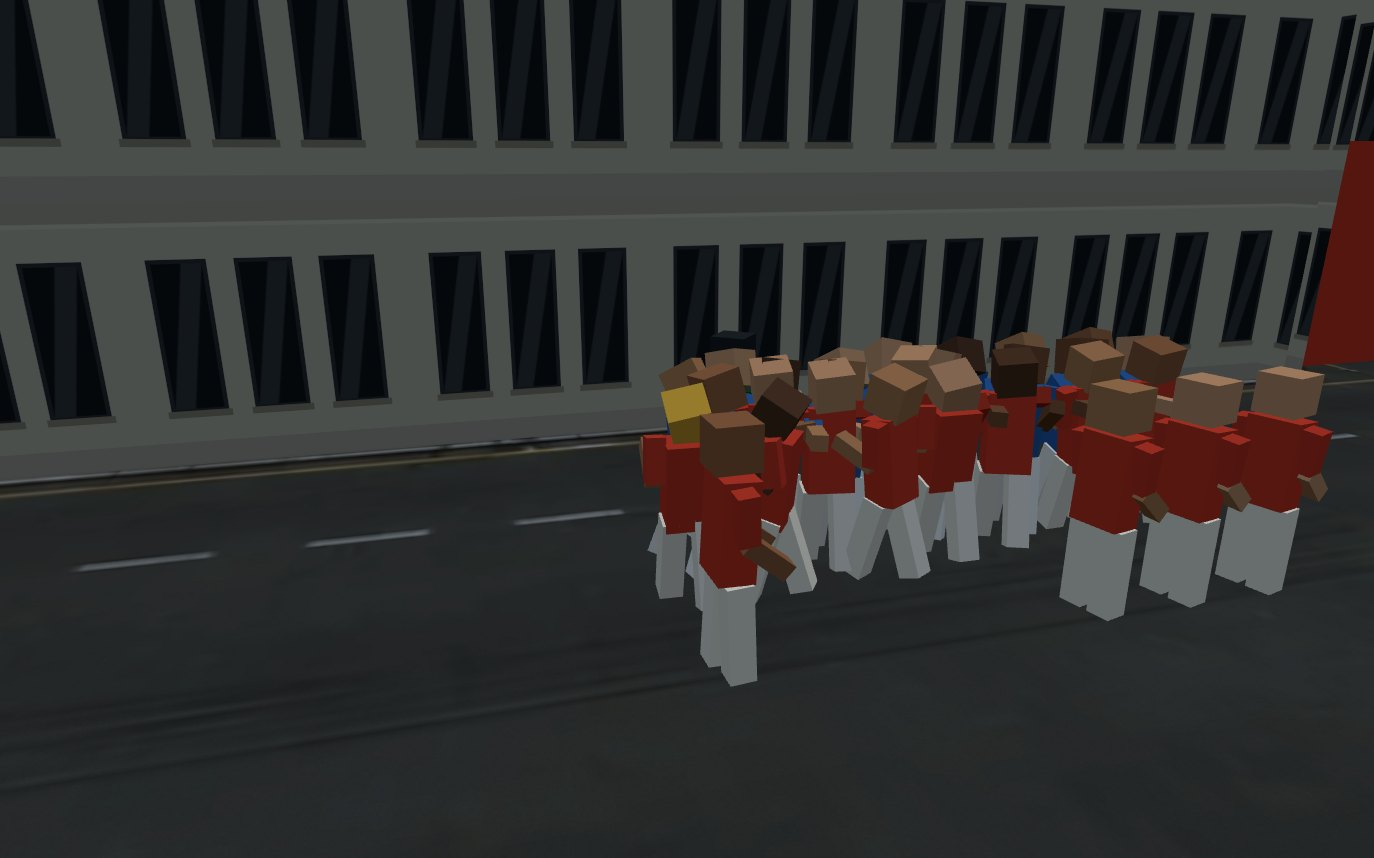
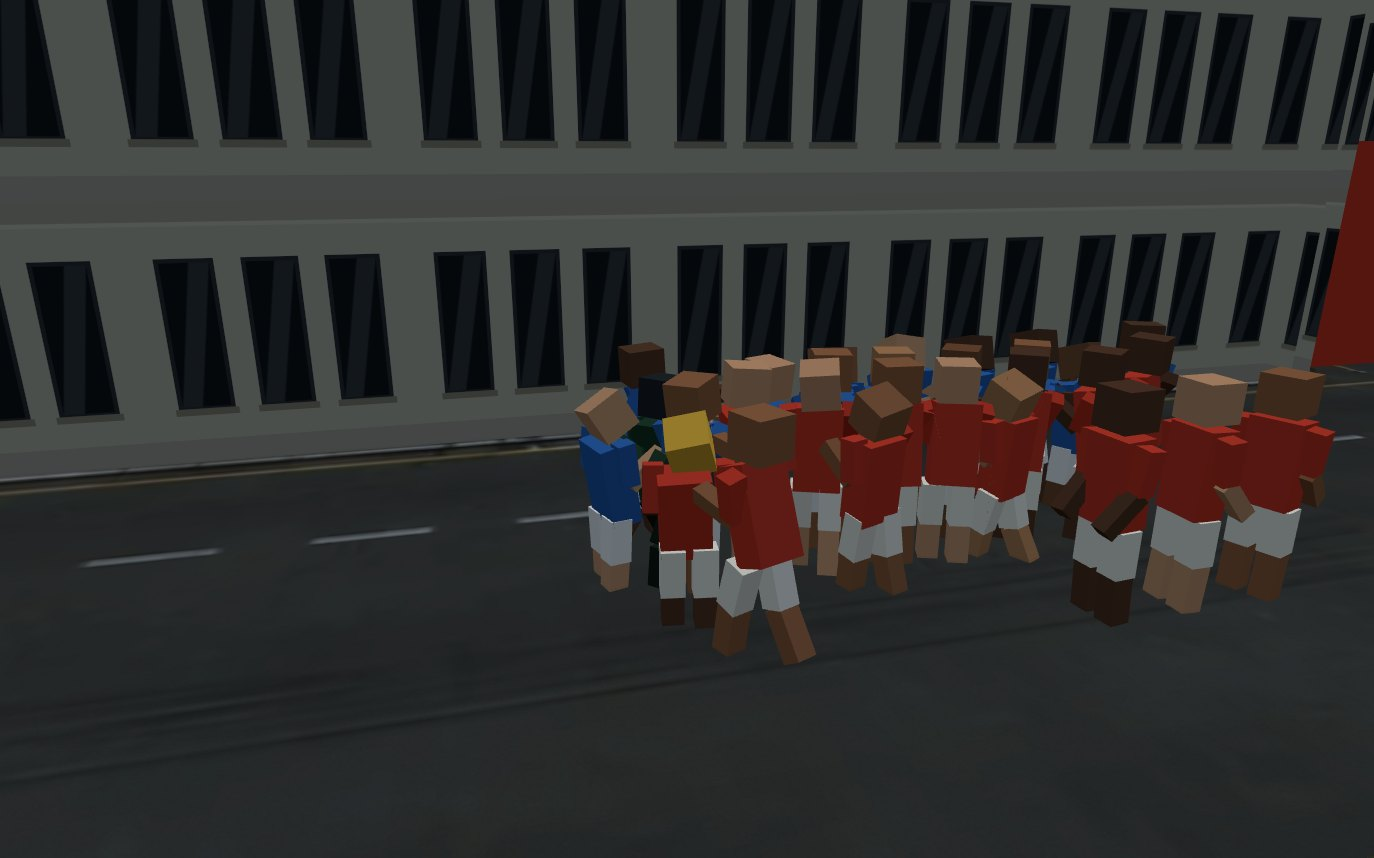
A perna ganha joelho, e o passo ganha peso
Perna reta indo e voltando é pêndulo, não passada: o pé varre o chão
na volta e o corpo não tem peso. Quatro coisas resolvem isso, e cada
uma responde por um pedaço.

A abertura do quadril é constante, e não é preguiça. A fase anda com a
DISTÂNCIA (0,19 rad por pixel), o ciclo fecha a cada 33 px e cada passo
cobre 16,5 px de chão; pra o pé não patinar a perna abre exatamente o
tanto que dá esses 16,5 — asin(16,5/26) ~ 0,66 — e isso não depende da
velocidade. Quem anda devagar dá o mesmo passo mais espaçado, e a
cadência já muda sozinha.

O joelho só dobra na perna solta, com max(0, -cos fase): a de apoio
fica reta e aguenta o corpo, a solta encolhe pra passar.

O quadril desce quando as pernas abrem. É trigonometria, não enfeite:
com as pernas em θ o pé fica L(1-cos θ) mais longe do quadril, então o
corpo baixa outro tanto — 2,7 px no passo cheio, duas vezes por ciclo,
e no ponto mais baixo o pé encosta no chão exatamente. A versão
anterior subia o tronco com |cos| e deixava os pés parados, que é o
contrário: corpo flutuando sobre perna rígida.

O tronco ginga e cai pra frente com a velocidade, e a cabeça compensa
pra o olhar ficar no horizonte.

Correção de escala junto: e.vel divide por 88 e não por 60, que é a
velocidade de todo mundo na cena — com 60 no divisor qualquer
deslocamento batia no teto e o boneco vivia em pose de corrida.

Medido: 0,42 ms de CPU por quadro com a cena parada e 0,50 ms com todo
[…]

diff --git a/js/diajogo/cena3d.js b/js/diajogo/cena3d.js
@@ -55,7 +55,13 @@ const MAX_MODS  = 120;
    desenho. Mexer nisso é mexer na colisão, não aqui.
    --------------------------------------------------------- */
 const B = {
-  perna:  { l: 3.2, a: 12,  p: 3.2, quadril: 13, lado: 2.1 },
+  /* A PERNA TAMBÉM TEM JOELHO.
+     Perna reta indo e voltando é pêndulo, não passada: o pé varre o
+     chão na volta e o corpo não tem peso. Com joelho, a perna solta
+     dobra pra passar e a perna de apoio fica reta — que é o que faz
+     o quadril subir e descer sozinho. */
+  coxa:   { l: 3.2, a: 6.4, p: 3.2, quadril: 13, lado: 2.1 },
+  canela: { l: 2.9, a: 6.6, p: 2.9 },
   tronco: { l: 6.6, a: 12,  p: 4.4, centro: 19 },
   cabeca: { l: 5.4, a: 5.4, p: 5.4, centro: 28.4 },
   /* O BRAÇO TEM COTOVELO, E ISSO NÃO É CAPRICHO.
@@ -475,8 +481,9 @@ export function criar(canvas) {
     return m;
   };
 
-  const PECAS = ['cabeca', 'tronco', 'bracoSE', 'bracoIE', 'bracoSD', 'bracoID',
-                 'pernaE', 'pernaD'];
+  const PECAS = ['cabeca', 'tronco',
+                 'bracoSE', 'bracoIE', 'bracoSD', 'bracoID',
+                 'coxaE', 'canelaE', 'coxaD', 'canelaD'];
   const gente = {}, pm = {};
   for (const p of PECAS) {
     gente[p] = instanciar(caixa1, MAX_GENTE);
@@ -511,8 +518,10 @@ export function criar(canvas) {
      o giro do ombro de graça */
   membro('bracoIE', juntas.bracoSE.j, 0, -B.bracoS.a, 0, B.bracoI, true);
   membro('bracoID', juntas.bracoSD.j, 0, -B.bracoS.a, 0, B.bracoI, true);
-  membro('pernaE', raiz, -B.perna.lado, B.perna.quadril, 0, B.perna, true);
-  membro('pernaD', raiz,  B.perna.lado, B.perna.quadril, 0, B.perna, true);
+  membro('coxaE', raiz, -B.coxa.lado, B.coxa.quadril, 0, B.coxa, true);
+  membro('coxaD', raiz,  B.coxa.lado, B.coxa.quadril, 0, B.coxa, true);
+  membro('canelaE', juntas.coxaE.j, 0, -B.coxa.a, 0, B.canela, true);
+  membro('canelaD', juntas.coxaD.j, 0, -B.coxa.a, 0, B.canela, true);
 
   /* =======================================================
      O QUE A SIMULAÇÃO NÃO GUARDA
@@ -566,7 +575,11 @@ export function criar(canvas) {
     }
     const dx = x - e.x, dz = z - e.z;
     const d = Math.hypot(dx, dz);
-    e.vel = dt > 0 ? Math.min(1, (d / dt) / 70) : 0;
+    /* 88 e não 60 (a velocidade de todo mundo na cena): com 60 no
+       divisor qualquer deslocamento normal batia no teto e o boneco
+       vivia em pose de corrida. Em 88, andar no passo do bonde dá
+       0,68 e sobra topo pra quem persegue e pra quem foge. */
+    e.vel = dt > 0 ? Math.min(1, (d / dt) / 88) : 0;
     if (d > 0.05) { e.fase += d * 0.19; e.rumo = Math.atan2(dx, dz); }
     e.x = x; e.z = z;
     return e;
@@ -664,26 +677,83 @@ export function criar(canvas) {
   const corLado = (l, claro) => l === 'visitante'
     ? (claro ? 0xe8e8e8 : 0x2a5fa8) : (claro ? 0xe8e4dc : 0xc0392b);
 
-  /* põe uma pessoa: posiciona a raiz, gira as juntas e copia as
-     seis matrizes do mundo pras seis instâncias */
+  /* =======================================================
+     A PASSADA, COM JOELHO E COM PESO
+
+     Quatro coisas, e cada uma responde por um pedaço do "isto é
+     gente andando" em vez de "isto é caixa deslizando":
+
+     1. AMPLITUDE CRESCE COM A VELOCIDADE. Andar abre 0,30 rad de
+        quadril; correr abre 0,64. É o que separa o bonde subindo a
+        rua do bonde correndo da PM, sem estado novo nenhum — a
+        velocidade sai da diferença de posição entre dois quadros.
+
+     2. O JOELHO SÓ DOBRA NA PERNA SOLTA. Dobra máxima no meio do
+        balanço (quando a perna passa por baixo do corpo) e zero no
+        apoio. É `max(0, −cos fase)`: a perna de apoio fica reta e
+        aguenta o corpo, a solta encolhe pra passar sem varrer o
+        chão. Sem isso o pé atravessa o asfalto meio ciclo inteiro.
+
+     3. O QUADRIL DESCE QUANDO AS PERNAS ABREM. Não é enfeite, é
+        trigonometria: com as pernas abertas em θ o pé fica
+        `L·(1−cos θ)` mais longe do quadril, então o corpo baixa
+        outro tanto. É esta descida — duas por ciclo — que dá peso.
+        A versão anterior subia o tronco com `|cos|` e deixava os
+        pés no lugar, o que é o contrário: corpo flutuando sobre
+        perna rígida.
+
+     4. O TRONCO GINGA E INCLINA. Meio pixel de bamboleio lateral por
+        passo, e o tronco cai pra frente com a velocidade enquanto a
+        cabeça compensa pra o olhar ficar no horizonte.
+     ======================================================= */
   function porPessoa(alvo, i, e, sin, cores) {
-    const bal = Math.sin(e.fase) * 0.95 * e.vel;
-    const sobe = Math.abs(Math.cos(e.fase)) * 0.9 * e.vel;
+    const v = e.vel;
+    /* A ABERTURA DO QUADRIL É CONSTANTE, E ISSO NÃO É PREGUIÇA.
+       A fase anda com a DISTÂNCIA (0,19 rad por pixel), então o ciclo
+       fecha a cada 33 px e cada passo cobre 16,5 px de chão. Pra o pé
+       não patinar, a perna tem que abrir o tanto que dá esses 16,5:
+       `asin(16,5 / 26) ≈ 0,66`, e esse número não depende da
+       velocidade. Quem anda devagar dá o mesmo passo mais espaçado —
+       é a cadência que muda, e ela já muda sozinha.
+       O que a velocidade controla é o resto: joelho, braço, inclinação.
+       `forca` só apaga a passada quando a pessoa para de verdade. */
+    const forca = Math.min(1, v / 0.18);
+    const sen = Math.sin(e.fase), cos = Math.cos(e.fase);
+    const abertura = 0.66 * forca;                 // rad de quadril
+    const dobra    = (0.42 + 0.55 * v) * forca;    // rad de joelho
+    const balBraco = (0.40 + 0.45 * v) * forca;
+
     const oE = juntas.bracoSE.j, oD = juntas.bracoSD.j;   // ombros
     const cE = juntas.bracoIE.j, cD = juntas.bracoID.j;   // cotovelos
+    const qE = juntas.coxaE.j,   qD = juntas.coxaD.j;     // quadris
+    const jE = juntas.canelaE.j, jD = juntas.canelaD.j;   // joelhos
 
     raiz.position.set(e.x, 0, e.z);
     raiz.rotation.set(0, e.ang, 0);
-    juntas.tronco.j.rotation.set(0, 0, 0);
-    juntas.cabeca.j.rotation.set(0, 0, 0);
-    oE.rotation.set(-bal * 0.72, 0, 0);
-    oD.rotation.set( bal * 0.72, 0, 0);
-    cE.rotation.set(-0.22, 0, 0);
-    cD.rotation.set(-0.22, 0, 0);
-    juntas.pernaE.j.rotation.set( bal, 0, 0);
-    juntas.pernaD.j.rotation.set(-bal, 0, 0);
-    juntas.tronco.j.position.y = B.tronco.centro + sobe;
-    juntas.cabeca.j.position.y = B.cabeca.centro + sobe;
+
+    /* perna: ângulo negativo no quadril joga a coxa pra frente;
+       positivo no joelho dobra o calcanhar pra trás, que é o único
+       lado pra onde joelho dobra */
+    qE.rotation.set(-abertura * sen, 0, 0);
+    qD.rotation.set( abertura * sen, 0, 0);
+    jE.rotation.set(0.06 + dobra * Math.max(0, -cos), 0, 0);
+    jD.rotation.set(0.06 + dobra * Math.max(0,  cos), 0, 0);
+
+    /* braço contrário à perna do mesmo lado, e cotovelo fechando
+       conforme a coisa vira corrida */
+    oE.rotation.set( balBraco * sen, 0, 0);
+    oD.rotation.set(-balBraco * sen, 0, 0);
+    cE.rotation.set(-(0.22 + 1.0 * v), 0, 0);
+    cD.rotation.set(-(0.22 + 1.0 * v), 0, 0);
+
+    /* o peso: quanto o quadril desce por causa da abertura */
+    raiz.position.y = -(B.coxa.a + B.canela.a) *
+                      (1 - Math.cos(abertura * Math.abs(sen)));
+
+    juntas.tronco.j.rotation.set(0.16 * v, 0, -sen * 0.05 * forca);
+    juntas.cabeca.j.rotation.set(-0.10 * v, 0, 0);
+    juntas.tronco.j.position.set(sen * 0.55 * forca, B.tronco.centro, 0);
+    juntas.cabeca.j.position.set(-sen * 0.14 * forca, B.cabeca.centro, 0);
 
     if (sin.preso) {
       /* Preso senta no chão com as mãos pra trás. É o outro fim da
@@ -692,8 +762,8 @@ export function criar(canvas) {
          nasce em 13, a perna tem 3,2 de grossura, então o eixo dela
          precisa cair pra ~1,6. */
       raiz.position.y = -11.2;
-      juntas.pernaE.j.rotation.x = -1.45;
-      juntas.pernaD.j.rotation.x = -1.35;
+      qE.rotation.set(-1.48, 0, -0.10); jE.rotation.set(0.12, 0, 0);
+      qD.rotation.set(-1.40, 0,  0.10); jD.rotation.set(0.20, 0, 0);
       oE.rotation.set(1.05, 0, -0.25); cE.rotation.set(-0.55, 0, 0);
       oD.rotation.set(1.05, 0,  0.25); cD.rotation.set(-0.55, 0, 0);
       juntas.tronco.j.rotation.x = -0.12;
@@ -701,8 +771,8 @@ export function criar(canvas) {
     } else if (sin.caido) {
       raiz.rotation.set(-Math.PI / 2, e.ang, 0, 'YXZ');
       raiz.position.set(e.x, 4.6, e.z);
-      juntas.pernaE.j.rotation.x = 0.25;
-      juntas.pernaD.j.rotation.x = -0.15;
+      qE.rotation.set(0.28, 0, 0);  jE.rotation.set(0.55, 0, 0);
+      qD.rotation.set(-0.16, 0, 0); jD.rotation.set(0.18, 0, 0);
       oE.rotation.x = 0.9;  cE.rotation.x = -0.9;
       oD.rotation.x = -0.6; cD.rotation.x = -0.4;
     } else {
@@ -734,8 +804,8 @@ export function criar(canvas) {
         juntas.tronco.j.rotation.x = 0.15 + 0.22 * k;
         raiz.position.x += Math.sin(e.ang) * 2.6 * k;
         raiz.position.z += Math.cos(e.ang) * 2.6 * k;
-        juntas.pernaE.j.rotation.x =  0.34 * k;
-        juntas.pernaD.j.rotation.x = -0.26 * k;
+        qE.rotation.x =  0.34 * k; jE.rotation.x = 0.30 * k;
+        qD.rotation.x = -0.30 * k; jD.rotation.x = 0.12 * k;
       }
 
       /* ---- ARREMESSO: arma atrás da cabeça e solta à frente */
@@ -776,8 +846,8 @@ export function criar(canvas) {
       if (sin.atordoado > 0) {
         const t = sin.atordoado;
         raiz.rotation.z = Math.sin(t * 26) * 0.20 * Math.min(1, t / 0.3);
-        juntas.pernaE.j.rotation.x = 0.30;
-        juntas.pernaD.j.rotation.x = -0.22;
+        qE.rotation.x = 0.30; jE.rotation.x = 0.42;
+        qD.rotation.x = -0.22; jD.rotation.x = 0.16;
       }
     }
 
@@ -823,7 +893,8 @@ export function criar(canvas) {
         bracoSE: d.preso ? 0x2c4f3c : camisa,   // manga
         bracoSD: d.preso ? 0x2c4f3c : camisa,
         bracoIE: pele, bracoID: pele,           // antebraço
-        pernaE: calcao, pernaD: calcao
+        coxaE: calcao, coxaD: calcao,           // calção
+        canelaE: pele, canelaD: pele            // canela de fora
       });
       n++;
     }
@@ -850,7 +921,8 @@ export function criar(canvas) {
         cabeca: 0x20262b, tronco: 0x1e3a2c,
         bracoSE: 0x1e3a2c, bracoSD: 0x1e3a2c,
         bracoIE: 0x2c4a38, bracoID: 0x2c4a38,
-        pernaE: 0x15221a, pernaD: 0x15221a
+        coxaE: 0x15221a, coxaD: 0x15221a,
+        canelaE: 0x15221a, canelaD: 0x15221a
       });
       n++;
     }

diff --git a/docs/PLANO_CENA_3D.md b/docs/PLANO_CENA_3D.md
@@ -77,18 +77,16 @@ escolher.
 
 ## 3. O boneco
 
-Oito peças de caixa — cabeça, tronco, dois braços com **cotovelo** (braço e
-antebraço) e duas pernas — e **uma malha instanciada por peça**: 400 pessoas
-custam 8 chamadas de desenho, não 400. A passada é procedural: o desenhista
-guarda a posição do quadro anterior, tira dali a direção e a velocidade, e
-balança quadril e ombro com isso. O tronco sobe e desce meio pixel na passada,
-que é o que separa "boneco deslizando" de "gente andando".
+Dez peças de caixa — cabeça, tronco, dois braços com **cotovelo** e duas pernas
+com **joelho** — e **uma malha instanciada por peça**: 400 pessoas custam 10
+chamadas de desenho, não 400. Tudo procedural: o desenhista guarda a posição do
+quadro anterior e tira dali a direção, a velocidade e a fase da passada.
 
-**O cotovelo não é capricho.** Com um osso por braço, guarda e soco são o mesmo
-gesto com dois ângulos parecidos e ninguém distingue um do outro a três metros.
-Com dois ossos, guarda é braço baixo com o antebraço em pé na frente do rosto, e
-soco é o antebraço abrindo — são silhuetas diferentes, e leem de longe. Custou
-duas malhas instanciadas e 4 chamadas de desenho a mais.
+**Cotovelo e joelho não são capricho.** Com um osso por braço, guarda e soco são
+o mesmo gesto com dois ângulos parecidos e ninguém distingue um do outro a três
+metros; com dois, guarda é o antebraço em pé na frente do rosto e soco é o
+antebraço abrindo. Com um osso por perna, andar é pêndulo: o pé varre o chão na
+volta e o corpo não tem peso. Cada junta custou duas malhas instanciadas.
 
 **Nenhum arquivo de modelo, nenhum osso importado, nenhuma animação de fora.**
 É de propósito: o boneco de caixa é o *lugar* onde o boneco do Blender entra
@@ -97,6 +95,40 @@ depois, com a mesma interface — `porPessoa(alvo, i, estado, sinais, cores)`.
 A manga é a cor primária da torcida e o antebraço é pele; o calção é a cor
 secundária. São as mesmas duas cores que o disco 2D usa (§8.12). O líder usa
 boné dourado.
+
+### A passada, com peso
+
+Quatro coisas, e cada uma responde por um pedaço:
+
+**A abertura do quadril é constante, e isso não é preguiça.** A fase anda com a
+*distância* — 0,19 rad por pixel — então o ciclo fecha a cada 33 px e cada passo
+cobre 16,5 px de chão. Pra o pé não patinar, a perna tem que abrir exatamente o
+tanto que dá esses 16,5: `asin(16,5 / 26) ≈ 0,66`, e esse número não depende da
+velocidade. Quem anda devagar dá o mesmo passo mais espaçado; a cadência já muda
+sozinha. O que a velocidade controla é joelho, braço e inclinação.
+
+**O joelho só dobra na perna solta.** Dobra máxima no meio do balanço, quando a
+perna passa por baixo do corpo, e zero no apoio: é `max(0, −cos fase)`. A perna
+de apoio fica reta e aguenta o corpo, a solta encolhe pra passar sem varrer o
+chão.
+
+**O quadril desce quando as pernas abrem.** Não é enfeite, é trigonometria: com
+as pernas abertas em θ o pé fica `L·(1−cos θ)` mais longe do quadril, então o
+corpo baixa outro tanto — 2,7 px no passo cheio, duas vezes por ciclo. É esta
+descida que dá peso, e ela fecha a conta: no ponto mais baixo o pé encosta no
+chão exatamente. A versão anterior fazia o contrário, subia o *tronco* com
+`|cos|` e deixava os pés parados — corpo flutuando sobre perna rígida.
+
+**O tronco ginga e inclina.** Meio pixel de bamboleio lateral por passo, e o
+tronco cai pra frente com a velocidade enquanto a cabeça compensa pra o olhar
+ficar no horizonte.
+
+Uma correção de escala junto: `e.vel` divide por **88** e não por 60, que é a
+velocidade de todo mundo na cena. Com 60 no divisor qualquer deslocamento normal
+batia no teto e o boneco vivia em pose de corrida; em 88, andar no passo do
+bonde dá 0,68 e sobra topo pra quem persegue e pra quem foge.
+
+![passada](../img/cena3d/passada.jpg)
 
 ---
 
@@ -149,19 +181,20 @@ Medidos no navegador, na cena dos arredores, com 63 pessoas em pé.
 
 | o quê | valor |
 |---|---:|
-| CPU do desenhista 3D por quadro, noite parada | **0,36 ms** |
-| CPU do desenhista 3D por quadro, **todo mundo em briga** | **0,47 ms** |
+| CPU do desenhista 3D por quadro, noite parada | **0,42 ms** |
+| CPU do desenhista 3D por quadro, **todo mundo em briga** | **0,50 ms** |
 | CPU da simulação por quadro (`combate.passo`) | **0,61 ms** |
-| montar os prédios do zero (BFS + greedy + geometria) | **21 ms** |
-| chamadas de desenho por quadro | **26** |
-| triângulos na cena | **~8 700** |
+| montar os prédios do zero (BFS + greedy + geometria) | **17 ms** |
+| chamadas de desenho por quadro | **30** |
+| triângulos na cena | **~10 400** |
 | prédios / caixas nos arredores | 15 / 111 |
 | prédios / caixas na praça | 8 / 105 |
 
 **Com a briga inteira animada, o desenhista 3D ainda custa menos do que a
 própria simulação.** Isso responde a pergunta de CPU e é o número que mais
 importa: pôr em pé não é o gargalo. As poses de briga cobraram 0,11 ms — o
-índice espacial de "quem encarar" e as duas peças de braço a mais.
+índice espacial de "quem encarar" e as peças de braço a mais — e o joelho com o
+peso no passo cobrou outros 0,06 ms.
 
 **O que eu não pude medir: a placa de vídeo.** Este ambiente só tem rasterizador
 por software (SwiftShader), onde a cena roda a 4–5 quadros por segundo. Com 22
@@ -260,10 +293,9 @@ uma câmera só, que seja a `alta` (`X`), que é a que ainda mostra formação.
 
 Em ordem de quanto muda a impressão por hora gasta.
 
-1. **Joelho, e peso no passo.** O braço ganhou cotovelo; a perna não. Andar
-   ainda é perna reta indo e voltando, e correr é a mesma coisa mais rápida.
-   Um joelho e um agachamento no apoio separam andar de correr de fugir — e
-   fugir é um estado que a simulação já tem (`d.fugindo`) e o desenho ignora.
+1. **Fugir não tem cara de fugir.** `d.fugindo` existe na simulação e o desenho
+   só o vê pela velocidade. Correr olhando pra trás, braço protegendo a cabeça,
+   é o que faz uma debandada parecer uma debandada.
 2. **Meio-fio e calçada.** A malha diz "dá pra pisar" e mais nada, então a
    calçada é chão pintado e o prédio nasce direto do asfalto. Um degrau de 15 cm
    em volta de cada quarteirão resolve 80% da sensação de rua.
